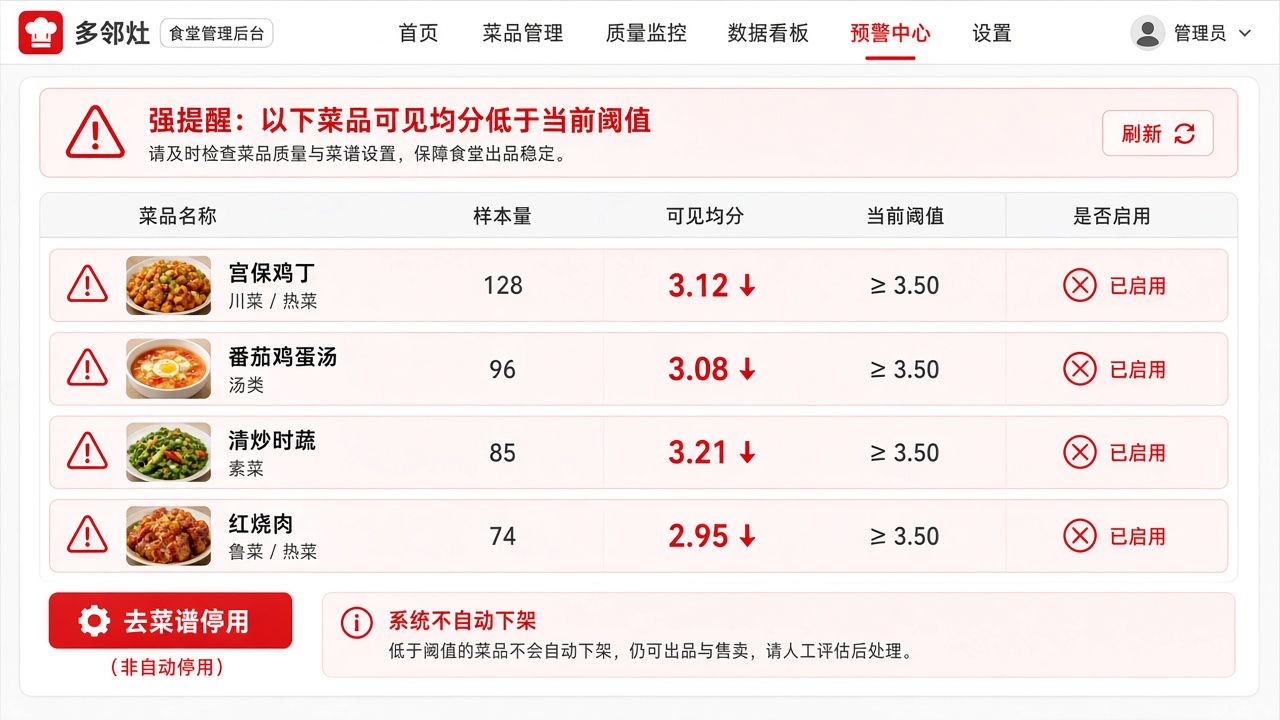
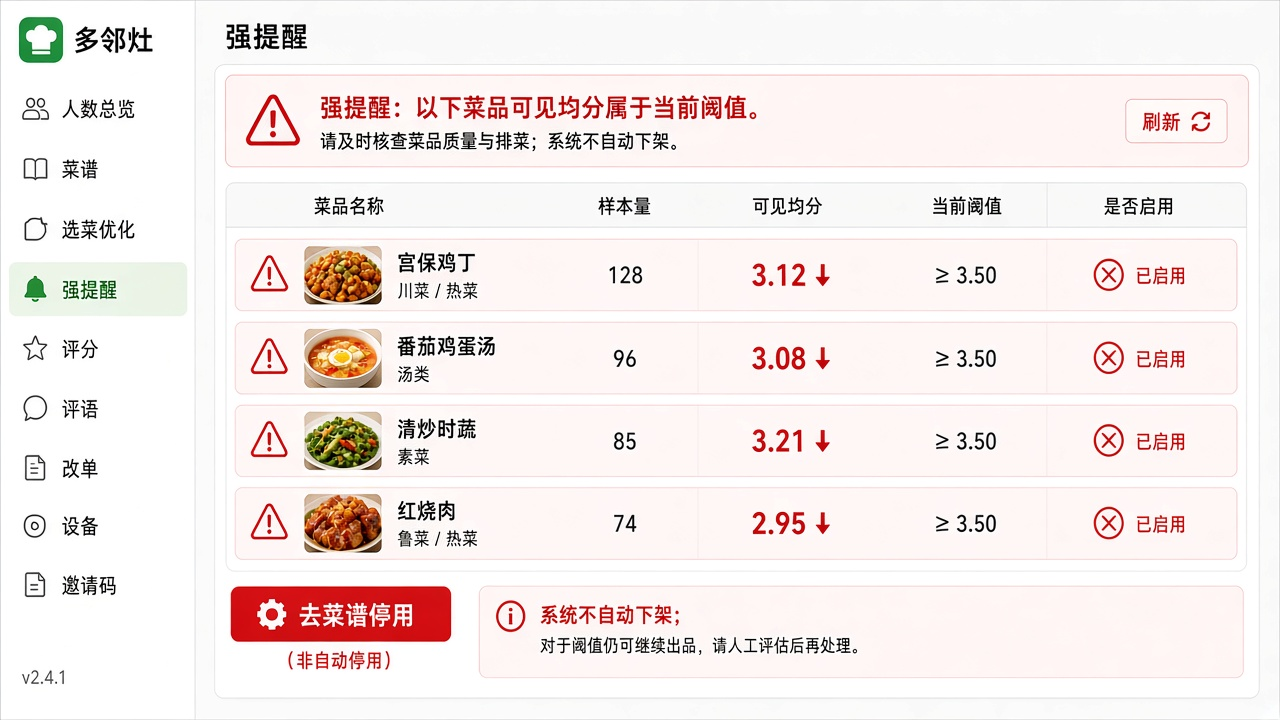
docs: add confirmed screens and the sidebar strong-alert

diff --git a/docs/requirements-phase1.md b/docs/requirements-phase1.md
@@ -192,7 +192,7 @@
 
 ## 10. 员工端界面参考
 
-员工端竖屏的参考图在 [docs/ui/](ui/README.md)。这是信息结构参考，不是像素级终稿。图和本节冲突时以本节为准。首页、选择班制、本周报餐、评分、模板预览各有一张。
+员工端竖屏的参考图在 [docs/ui/](ui/README.md)。这是信息结构参考，不是像素级终稿。图和本节冲突时以本节为准。首页、选择班制、本周报餐、评分、模板预览、邀请码注册、用描述生成模板、绑定食堂、设备与 Passkey 各有一张。
 
 1. **首页**：未选班制时标明尚未选择班制、默认不报任何一餐；可进入选择班制，也可进入本周手动报餐。底部为报餐、评分、我的。
 2. **选择班制**：只提供「上二休四」和「自定义排班」。参考图里的「长白班五休二」不在一期，不得出现。图上的「用描述生成模板」走第 7 节的模板生成器，不是第三种班制。
@@ -201,25 +201,26 @@
 
 下列页面要单独能进，不能只埋在上面四屏里：
 
-5. **邀请码注册**：未登录时的独立页。字符串账号 + 邀请码。
-6. **用描述生成模板**：从「选择班制」进入的子页，走第 7 节的模板生成器，写入个人 DSL。不是第三种班制。
+5. **邀请码注册**：未登录时的独立页，参考图见 [employee-invite-register.jpg](ui/employee-invite-register.jpg)。字符串账号 + 邀请码。
+6. **用描述生成模板**：从「选择班制」进入的子页，参考图见 [employee-template-generate.jpg](ui/employee-template-generate.jpg)。走第 7 节的模板生成器，写入个人 DSL。不是第三种班制。图上的「按账号已配置顺序」指总管理已保存的全站渠道顺序。
 7. **模板预览**：套用前的子页，参考图见 [employee-template-preview.jpg](ui/employee-template-preview.jpg)。绿色表示报餐，橙色表示不报，点一下即切换并写回个人 DSL。
-8. **绑定食堂**：从「我的」进入的独立页。绑定多个食堂是报餐使用范围，不是食堂管理范围。
-9. **设备与 Passkey**：从「我的」进入的独立页。查看设备、踢掉设备、解绑 Passkey；本账号的新设备确认用页内弹层。
+8. **绑定食堂**：从「我的」进入的独立页，参考图见 [employee-bind-canteens.jpg](ui/employee-bind-canteens.jpg)。绑定多个食堂是报餐使用范围，不是食堂管理范围。
+9. **设备与 Passkey**：从「我的」进入的独立页，参考图见 [employee-devices-passkey.jpg](ui/employee-devices-passkey.jpg)。查看设备、踢掉设备、解绑 Passkey；本账号的新设备确认用页内弹层。
 
 ---
 
 ## 11. 食堂端横屏界面清单
 
-食堂 / 物业、管理员和总管理使用**横屏**工作台。视觉参考在 [docs/ui/](ui/README.md)：以左侧栏为主，菜、饭、汤分开。强提醒、评语、截止后改单的旧稿导航不一致，不作为主导航。这里只列画面，不代替第 2 节的权限矩阵。员工竖屏不在此列。没有对应权限码或食堂范围不覆盖时，不显示该画面，调用也被拒绝。不为此清单新增权限码。图和本节冲突时以本节为准。
+食堂 / 物业、管理员和总管理使用**横屏**工作台。视觉参考在 [docs/ui/](ui/README.md)：以左侧栏为主，菜、饭、汤分开。强提醒用同一套左侧栏。评语、截止后改单的旧稿导航不一致，不作为主导航。这里只列画面，不代替第 2 节的权限矩阵。员工竖屏不在此列。没有对应权限码或食堂范围不覆盖时，不显示该画面，调用也被拒绝。不为此清单新增权限码。图和本节冲突时以本节为准。
 
-菜的新建、编辑和停用各自有明确入口。总管理的邮箱开关、强提醒阈值和账号找回各是独立页，不埋在别的列表里。
+新建和编辑是同一张菜品表单的两种状态，不各做一套画面。总管理的邮箱开关、强提醒阈值和账号找回各是独立页，不埋在别的列表里。
 
 ### 11.1 登录
 
 - **用途：** 进入横屏工作台。
 - **关键操作：** 按 Passkey / WebAuthn、TOTP、邮箱 magic link、密码的顺序登录。邮箱能力关闭时不出现 magic link。新设备只发起待确认，不能在本机自己点允许。
 - **权限：** 登录不授予食堂范围。进去之后按该账号的角色分配决定能看见哪些画面。邮箱开关只有总管理能改，不新增权限码。
+- **参考图：** [canteen-login.jpg](ui/canteen-login.jpg)。这一页没有左侧栏。邮箱能力关闭时不显示 magic link。密码放在最后。不扫码。
 - **数据：** 当前仍开放的登录入口；新设备一侧只显示正在等待已登录设备确认。
 
 ### 11.2 设备与多账号
@@ -227,6 +228,7 @@
 - **用途：** 一个食堂可以有多个账号，每个账号可以有多台设备，避免绑死一台电脑。
 - **关键操作：** 查看本账号设备和 Passkey；踢掉设备；解绑 Passkey；对本账号的待确认登录选择允许或拒绝。
 - **权限：** 只处理本账号。`device.approve` 不能按食堂范围去批准别人的新设备。查看、踢设备和解除 Passkey 是账号自身能力，不新增权限码。
+- **参考图：** [canteen-devices.jpg](ui/canteen-devices.jpg)。只处理本账号的设备、Passkey 和待确认请求。侧栏多出来的入口按权限显隐。
 - **数据：** 设备或浏览器的友好名称、User-Agent、IP、会话是否仍在、Passkey 列表、待确认请求。
 
 ### 11.3 就餐人数总览
@@ -239,32 +241,24 @@
 
 ### 11.4 菜谱
 
-菜谱分成三幅，不把新建或编辑只做成列表上的一行。
+菜谱是列表，加上同一张菜品表单。新建和编辑不再各做一套终稿。
 
 #### 11.4.1 菜谱列表
 
 - **用途：** 浏览范围内食堂已有的菜。
-- **关键操作：** 打开「新建菜」或某一行的「编辑菜」。
+- **关键操作：** 打开菜品表单的新建态，或某一行的编辑态。
 - **权限：** `menu.read`。`canteen` 限 `canteen_id` 列表，`super_admin` 为 `*`。只有 `admin`、没有 `canteen` 分配时看不到。
 - **参考图：** [canteen-menu.jpg](ui/canteen-menu.jpg)。用「全部 / 菜 / 饭 / 汤」筛选。图上没有图片列。列表可以显示缩略图，不强制；没有图片时用中性占位。
 - **数据：** 所属食堂、名称、类别（菜 / 饭 / 汤）、口味标签、`image_url`（无图为空）、是否启用。三类分组或筛选，不混成一张列表。
 
-#### 11.4.2 新建菜
+#### 11.4.2 菜品表单（新建 / 编辑）
 
-- **形态：** 菜谱列表下的独立子页。
-- **用途：** 在指定食堂新建一道菜。
-- **关键操作：** 填写并保存。可以上传一张图片，也可以不传。可以填写若干口味标签。保存后为启用。
-- **权限：** `menu.write`，且食堂范围要覆盖。上传图片和维护口味标签都用这个权限，不新增权限码。
-- **参考图：** [canteen-dish-new.jpg](ui/canteen-dish-new.jpg)。上传区、类型和启用可参考。图上的「备注」不是一期字段；口味标签是菜品上的短标签，不是备注框。
-- **数据：** 所属食堂、名称、类别（菜 / 饭 / 汤，必填）、口味标签（可空）、可选的一张图片。图片在库里是对象路径，保存成功后接口给出 `image_url`。
-
-#### 11.4.3 编辑菜（含停用 / 启用）
-
-- **形态：** 菜谱列表中某一行进入的独立子页。
-- **用途：** 修改已有菜，或显式停用、重新启用。
-- **关键操作：** 改名称、类别、口味标签或所属食堂；上传并更换图片，或移除图片；停用和启用放在本页，确认后才生效。强提醒不能代替这次确认，也不能自动停用。
-- **权限：** `menu.write`，且食堂范围要覆盖。上传、更换、移除图片和维护口味标签使用同一权限。
-- **数据：** 所属食堂、名称、类别（菜 / 饭 / 汤）、口味标签、当前 `image_url`（无图为空）、当前是否启用。无图时画面用中性占位。
+- **形态：** 同一页的两种状态。布局以编辑态为准：图片、所属食堂、名称、类别（菜 / 饭 / 汤）、口味标签、启用状态。
+- **新建态：** 空表。启用默认为开。保存后为启用。可以不上传图片，也可以填写口味标签。
+- **编辑态：** 带出已有内容。可更换或移除图片，可改名称、类别、口味标签和所属食堂。停用和启用放在本页，确认后才生效。强提醒不能代替这次确认，也不能自动停用。
+- **权限：** `menu.write`，且食堂范围要覆盖。上传、更换、移除图片和维护口味标签使用同一权限，不新增权限码。
+- **参考图：** [canteen-edit-dish.jpg](ui/canteen-edit-dish.jpg)。图上的示例菜名和所选类别只是样子。没有第二张新建菜终稿。
+- **数据：** 所属食堂、名称、类别（菜 / 饭 / 汤，必填）、口味标签（可空）、图片。图片在库里是对象路径，有图时接口给出 `image_url`。无图时画面用中性占位。编辑态另有当前是否启用。
 
 ### 11.5 选菜优化
 
@@ -290,9 +284,9 @@
 ### 11.6 强提醒
 
 - **用途：** 在样本量足够且可见均分低于阈值时，提醒食堂考虑停用该菜。
-- **关键操作：** 查看提醒。真正停用要打开「编辑菜」并显式确认。本页不修改阈值。
+- **关键操作：** 查看提醒。真正停用要打开菜品表单的编辑态并显式确认。本页不修改阈值。
 - **权限：** 该食堂的 `canteen` 分配可以看提醒。修改阈值只在「强提醒阈值」，要 `rating.strong_alert_config`。
-- **参考图：** [canteen-alert.jpg](ui/canteen-alert.jpg) 是旧稿，导航不作为主参考。不自动下架保留。图上的 3 分制不采纳，分数仍是 −2～2。
+- **参考图：** [canteen-alert.jpg](ui/canteen-alert.jpg)。左侧栏里的「强提醒」，与人数总览、菜谱同一套导航。看低分列表、去菜谱停用，以及不自动下架。图上的 3 分制和「川菜 / 热菜」等细类不采纳；分数仍是 −2～2，类别仍是菜、饭、汤。
 - **数据：** 名称、类别（菜 / 饭 / 汤）、样本量、可见均分、当前阈值、现在是否启用。按三类分组或筛选。文案不出现倾向、权重或 Elo。系统不自动下架。
 
 ### 11.7 评分汇总
@@ -324,6 +318,7 @@
 - **用途：** 发放注册用的一次性邀请码。
 - **关键操作：** 从列表进入生成。生成之后进入单独的「邀请码展示」状态，完整显示这一次的码。离开该状态后，列表只保留是否已使用和发放时间，不再显示码原文。
 - **权限：** `user.invite`。只有 `admin` 与 `super_admin`。`canteen` 没有。邀请不按食堂拆开。
+- **参考图：** [canteen-invite-show.jpg](ui/canteen-invite-show.jpg)。完整码只在这一次展示。图上的码形是示例。侧栏入口按权限显隐。
 - **数据：** 展示状态中的完整邀请码只出现一次。列表是已发放记录，不是码本身。
 
 ### 11.11 数据导出
@@ -372,7 +367,7 @@
 - **权限：** 仅 `super_admin` 的 `system.super`。不新增权限码。`canteen` 和 `admin` 看不到。
 - **数据：** 顺序、渠道种类（至少 OpenAI 旧接口、OpenAI 新接口、Anthropic，以及带 base URL 的兼容接口）、模型名、key 是否已配置。key 加密后存放。响应和审计都不含 key 原文。
 
-横屏里要能单独点到的名称：登录、设备与多账号、就餐人数总览、菜谱列表、新建菜、编辑菜、选菜优化（周视图、当餐选定）、强提醒、评分汇总、匿名评语、截止后改单、邀请码、邀请码展示、数据导出、审计日志、邮箱设置、强提醒阈值、账号找回、LLM 渠道配置。已有参考图的画面见 [docs/ui/](ui/README.md)。没有图的画面仍按第 10 节和第 11 节的文字做。
+横屏里要能单独点到的名称：登录、设备与多账号、就餐人数总览、菜谱列表、菜品表单（新建态 / 编辑态）、选菜优化（周视图、当餐选定）、强提醒、评分汇总、匿名评语、截止后改单、邀请码、邀请码展示、数据导出、审计日志、邮箱设置、强提醒阈值、账号找回、LLM 渠道配置。已有参考图的画面见 [docs/ui/](ui/README.md)。没有图的画面仍按第 10 节和第 11 节的文字做。
 
 ---
 
@@ -403,3 +398,5 @@
 | 2026-10-10 | 新建菜和编辑菜可上传一张图片。菜谱列表、选菜优化和评分显示该图片；没有图片时留空 |
 | 2026-10-10 | 更新界面参考：员工竖屏五张，食堂横屏以左侧栏为主。强提醒、评语、改单的旧导航稿不作为主参考 |
 | 2026-10-10 | 菜品图片写入对象路径并对外给 `image_url`；列表缩略图可选，无图用占位。口味标签由食堂维护，选菜只作辅助。色阶为更高更绿、更低更红。总管理增加「LLM 渠道配置」页 |
+| 2026-10-10 | 入库八张已确认主视觉：邀请码注册、描述生成、绑定食堂、设备与 Passkey、横屏登录、设备与多账号、编辑菜、邀请码展示 |
+| 2026-10-10 | 强提醒改用左侧栏终稿。新建与编辑合并为同一张菜品表单，以编辑菜布局为准；旧的新建菜图不再作为终稿 |

diff --git a/specs/phase1/requirements.md b/specs/phase1/requirements.md
@@ -34,7 +34,7 @@
 17. 周视图的一周是北京时间周一至周日。「把一周菜单定下来」指这一周每天三餐的选定结果已经保存，并能在周视图里按菜、饭、汤看清。它不是报餐截止锁定，也不另设一份冻结状态。某一类可以先空着。
 18. 每道餐品最多一张图片。新建和编辑可以上传、更换或移除，也可以一直不上传。库里保存对象路径，接口给出 `image_url`。菜谱列表可以显示缩略图，不强制。选菜优化和评分显示图片。没有图片时用中性占位，不用另一道菜的图充数。不新增权限码。图片只接受 JPEG、PNG、WebP，大小不超过配置上限；仓库不写死字节数。
 19. 口味标签挂在菜品上，由持有 `menu.write` 的食堂人员维护。选菜优化的周视图和当餐选定可以展示标签。标签不参与组内排序，也不改变色阶。色阶严格表示该类内的评分偏好：更高更绿，更低更红；无人评分用中性色。
-20. [docs/ui/](../../docs/ui/README.md) 是当前视觉参考，不是像素级终稿。食堂端以左侧栏那组为主。强提醒、评语、截止后改单三张旧稿的导航不作为主参考。图上的上五休二、备注、预计评分、评分偏好文案、大人儿童人数、分类占比、3 分制和另一套导航都不采纳。图和本文冲突时以本文为准。缺图的画面按需求原文第 10 节和第 11 节的文字做。
+20. [docs/ui/](../../docs/ui/README.md) 是当前视觉参考，不是像素级终稿。食堂端以左侧栏那组为主。强提醒用这套左侧栏。评语、截止后改单两张旧稿的导航不作为主参考。图上的上五休二、备注、预计评分、评分偏好文案、大人儿童人数、分类占比、3 分制和另一套导航都不采纳。新建和编辑是同一张菜品表单的两态。图和本文冲突时以本文为准。缺图的画面按需求原文第 10 节和第 11 节的文字做。
 
 ## 需求
 
@@ -207,8 +207,8 @@
 #### 验收标准
 
 1. 当持有该食堂 `menu.read` 的账号打开菜谱时，多邻灶应当展示菜谱列表。没有该权限码或范围不覆盖时应当拒绝。
-2. 当持有该食堂 `menu.write` 的账号新建菜时，多邻灶应当打开独立的「新建菜」子页，并把新菜归属到所选食堂、设为启用。
-3. 当持有该食堂 `menu.write` 的账号编辑菜时，多邻灶应当打开独立的「编辑菜」子页，并在确认后才停用或重新启用。
+2. 当持有该食堂 `menu.write` 的账号新建菜时，多邻灶应当打开菜品表单的新建态：空表，启用默认为开，保存后归属所选食堂并设为启用。
+3. 当持有该食堂 `menu.write` 的账号编辑菜时，多邻灶应当打开同一张菜品表单的编辑态，并在确认后才停用或重新启用。
 4. 当账号没有该食堂的 `menu.write` 时，多邻灶应当拒绝新建、修改和停用。
 5. 当新建或编辑菜时，多邻灶应当要求类别为菜、饭、汤之一。菜是热菜、凉菜等菜肴，饭是米饭、面食等主食，汤是汤。缺少类别，或提交这三类以外的值时，应当拒绝。
 6. 当展示菜谱列表时，多邻灶应当按菜、饭、汤分组或筛选，不把三类放进同一条混合列表。
@@ -345,11 +345,11 @@
 7. 当员工查看本周报餐时，多邻灶应当按天展示早、中、晚，允许在已绑定食堂之间切换，并提示跨食堂时按所选食堂生效，以及次日三餐会被锁定。报餐显示为绿色，不报显示为橙色。本周报餐参考图里的空心按钮和底部「保存」不代替这条。
 8. 当员工为已报过且仍在评分窗口内的餐打分时，多邻灶应当对餐品提供 −2、−1、0、1、2，并允许可选的匿名评语，最长 300 字，同时提示一周内可评。菜、饭、汤应当分开展示，不放进同一条混合列表。每道餐品旁应当显示其图片；没有图片时用中性占位。评分参考图把不同类别排在一起，实现时仍然分开。评语应当挂在每一道餐品的评分上。
 9. 多邻灶应当不根据员工端竖屏参考图实现食堂端。食堂端横屏以需求 20 和 [docs/ui/](../../docs/ui/README.md) 的主参考为准。
-10. 当未登录访客注册时，多邻灶应当提供独立的「邀请码注册」页。
-11. 当员工从选择班制进入描述生成时，多邻灶应当打开独立子页「用描述生成模板」，并把它写入个人 DSL。该子页不是第三种班制。
+10. 当未登录访客注册时，多邻灶应当提供独立的「邀请码注册」页，信息结构对齐 [employee-invite-register.jpg](../../docs/ui/employee-invite-register.jpg)。
+11. 当员工从选择班制进入描述生成时，多邻灶应当打开独立子页「用描述生成模板」，信息结构对齐 [employee-template-generate.jpg](../../docs/ui/employee-template-generate.jpg)，并把它写入个人 DSL。该子页不是第三种班制。图上的渠道顺序指总管理已保存的全站顺序。
 12. 当员工在套用前预览模板时，多邻灶应当打开「模板预览」子页，信息结构对齐 [employee-template-preview.jpg](../../docs/ui/employee-template-preview.jpg)：报餐为绿色，不报为橙色，切换写回个人 DSL。
-13. 当员工绑定食堂时，多邻灶应当从「我的」打开独立的「绑定食堂」页。
-14. 当员工查看设备或 Passkey 时，多邻灶应当从「我的」打开独立的「设备与 Passkey」页。
+13. 当员工绑定食堂时，多邻灶应当从「我的」打开独立的「绑定食堂」页，信息结构对齐 [employee-bind-canteens.jpg](../../docs/ui/employee-bind-canteens.jpg)。
+14. 当员工查看设备或 Passkey 时，多邻灶应当从「我的」打开独立的「设备与 Passkey」页，信息结构对齐 [employee-devices-passkey.jpg](../../docs/ui/employee-devices-passkey.jpg)。本账号的新设备确认用页内允许或拒绝。
 
 ### 需求 20 - 食堂端横屏画面
 
@@ -357,19 +357,19 @@
 
 #### 验收标准
 
-1. 多邻灶应当为食堂、管理员和总管理提供横屏工作台，画面与 [一期需求原文](../../docs/requirements-phase1.md) 第 11 节一致，视觉参考 [docs/ui/](../../docs/ui/README.md)。导航以左侧栏那组主参考为准。强提醒、评语、截止后改单的旧稿只参考画面内容，不照搬它们的导航。员工竖屏不复用这些画面。图和需求原文冲突时以原文为准。
+1. 多邻灶应当为食堂、管理员和总管理提供横屏工作台，画面与 [一期需求原文](../../docs/requirements-phase1.md) 第 11 节一致，视觉参考 [docs/ui/](../../docs/ui/README.md)。导航以左侧栏那组主参考为准。强提醒使用这套左侧栏。评语、截止后改单的旧稿只参考画面内容，不照搬它们的导航。员工竖屏不复用这些画面。图和需求原文冲突时以原文为准。
 2. 当账号缺少某画面所需权限码，或食堂范围不覆盖时，多邻灶应当不展示该画面，并拒绝相应操作。
 3. 多邻灶应当不为本节画面新增权限码。
-4. 当账号登录横屏工作台时，多邻灶应当提供与员工端相同的登录顺序；邮箱能力关闭时两端都不出现 magic link。新设备只能等待本账号已登录设备页内确认。
-5. 当账号查看设备画面时，多邻灶应当只列出本账号的设备、Passkey 和待确认请求，并允许踢掉本账号设备、解绑本账号 Passkey、批准或拒绝本账号的新设备登录。
+4. 当账号登录横屏工作台时，多邻灶应当提供与员工端相同的登录顺序，信息结构对齐 [canteen-login.jpg](../../docs/ui/canteen-login.jpg)；邮箱能力关闭时两端都不出现 magic link。新设备只能等待本账号已登录设备页内确认。这一页没有左侧栏。
+5. 当账号查看设备画面时，多邻灶应当只列出本账号的设备、Passkey 和待确认请求，信息结构对齐 [canteen-devices.jpg](../../docs/ui/canteen-devices.jpg)，并允许踢掉本账号设备、解绑本账号 Passkey、批准或拒绝本账号的新设备登录。
 6. 当账号持有某食堂的 `menu.read`、`optimizer.read` 或 `meal.admin_override`，或持有 `super_admin` 时，多邻灶应当在就餐人数总览中展示该食堂选定日期的早、中、晚有效报餐人数和是否已锁定。仅有员工食堂绑定的账号应当看不到这幅画面。
-7. 当账号持有 `menu.read` 时，多邻灶应当展示菜谱列表，并按菜、饭、汤分组或筛选，不把三类放进同一条混合列表。列表可以显示缩略图，不强制；没有图片时用中性占位。当账号持有 `menu.write` 时，应当能从列表进入独立的「新建菜」和「编辑菜」；新建和编辑必须填写类别，且只能是这三类之一，并可以上传、更换或移除一张图片，以及维护口味标签；停用须在编辑页确认。没有 `menu.write` 时应当拒绝新建、修改、停用、上传图片和维护标签。
+7. 当账号持有 `menu.read` 时，多邻灶应当展示菜谱列表，并按菜、饭、汤分组或筛选，不把三类放进同一条混合列表。列表可以显示缩略图，不强制；没有图片时用中性占位。当账号持有 `menu.write` 时，应当能从列表进入同一张菜品表单：新建态是空表且默认启用，编辑态带出已有内容；类别只能是菜、饭、汤之一，并可以上传、更换或移除一张图片，以及维护口味标签；停用须在编辑态确认。没有 `menu.write` 时应当拒绝新建、修改、停用、上传图片和维护标签。布局对齐 [canteen-edit-dish.jpg](../../docs/ui/canteen-edit-dish.jpg)。
 8. 当账号持有 `optimizer.read` 时，多邻灶应当先给出周视图：周一至周日，每天三餐，每餐分列菜、饭、汤，并在餐品旁显示图片和口味标签。进入某一餐后应当把候选分成三组，在每一组内部按暗线偏好排序，并按更高更绿、更低更红上色。标签不改变排序和色阶。不展示偏好数值、倾向、权重或 Elo。勾选或取消应当立即保存。保存并前进应当按早餐、午餐、晚餐、下一天早餐的顺序跳转；周日晚餐之后进入下一周周一早餐，以便把一周菜单定下来。没有图片时应当用中性占位。
-9. 当账号持有该食堂的 `canteen` 分配时，多邻灶应当在强提醒画面展示样本量、可见均分和阈值，并按菜、饭、汤分组或筛选。系统应当不因提醒自动停用菜。修改阈值应当只出现在总管理的「强提醒阈值」页，并要求 `rating.strong_alert_config`。
+9. 当账号持有该食堂的 `canteen` 分配时，多邻灶应当在左侧栏的「强提醒」页展示样本量、可见均分和阈值，并按菜、饭、汤分组或筛选。信息结构对齐 [canteen-alert.jpg](../../docs/ui/canteen-alert.jpg)。系统应当不因提醒自动停用菜。停用要打开菜品表单并显式确认。修改阈值应当只出现在总管理的「强提醒阈值」页，并要求 `rating.strong_alert_config`。图上的 3 分制不采纳。
 10. 当账号持有 `rating.admin_read` 时，多邻灶应当展示范围内餐品的图片、可见均分、样本量和 −2 到 2 的次数，并按菜、饭、汤分组或筛选。没有图片时应当用中性占位。`canteen` 在自己的食堂范围内也应当看得到。员工应当看不到。
 11. 当账号持有 `comment.admin_read` 时，多邻灶应当展示范围内评语，并按菜、饭、汤分组或筛选；匿名评语不展示账号，且不提供删除操作。`canteen` 在自己的食堂范围内也应当看得到。
 12. 当账号持有覆盖该餐的 `meal.admin_override` 时，多邻灶应当允许在截止后修改该餐，并写入带操作者、角色和范围的审计。
-13. 当账号持有 `user.invite` 时，多邻灶应当允许生成邀请码，并在单独的「邀请码展示」状态完整显示一次。离开后列表不得再显示码原文。`canteen` 单独分配时应当看不到邀请码画面。
+13. 当账号持有 `user.invite` 时，多邻灶应当允许生成邀请码，并在单独的「邀请码展示」状态完整显示一次，信息结构对齐 [canteen-invite-show.jpg](../../docs/ui/canteen-invite-show.jpg)。离开后列表不得再显示码原文。图上的码形是示例。`canteen` 单独分配时应当看不到邀请码画面。
 14. 当账号持有 `export.run` 时，多邻灶应当允许导出食堂、菜谱、报餐、评分、评语和审计，并排除密码哈希与密钥。没有该权限码时应当看不到数据导出。
 15. 当账号持有 `audit.read` 时，多邻灶应当允许查看含操作者、角色和范围的审计，并拒绝删除未满 6 个月的记录。没有该权限码时应当看不到审计日志。
 16. 总管理应当有独立的「邮箱设置」页和「账号找回」页。邮箱设置不新增权限码；账号找回要求 `user.recover`。

diff --git a/docs/ui/README.md b/docs/ui/README.md
@@ -2,7 +2,7 @@
 
 这些图是当前的视觉参考，不是像素级终稿。产品规则以 [一期需求](../requirements-phase1.md) 为准。图和正文冲突时，按正文实现，并看下面的「不要照搬」。
 
-食堂端以**左侧栏**为主，菜、饭、汤分开。强提醒、评语、截止后改单三张是更早的稿，导航彼此不一致，**不作为主导航**。内容可以参考，外壳跟主参考的左侧栏走。
+食堂端以**左侧栏**为主，菜、饭、汤分开。评语、截止后改单两张是更早的稿，导航彼此不一致，**不作为主导航**。内容可以参考，外壳跟主参考的左侧栏走。
 
 ## 员工端竖屏
 
@@ -13,6 +13,10 @@
 | 本周报餐 | [employee-week.jpg](employee-week.jpg) |
 | 评分 | [employee-rating.jpg](employee-rating.jpg) |
 | 模板预览：绿色报餐，橙色不报 | [employee-template-preview.jpg](employee-template-preview.jpg) |
+| 邀请码注册 | [employee-invite-register.jpg](employee-invite-register.jpg) |
+| 用描述生成模板 | [employee-template-generate.jpg](employee-template-generate.jpg) |
+| 绑定食堂 | [employee-bind-canteens.jpg](employee-bind-canteens.jpg) |
+| 设备与 Passkey（含新设备页内确认） | [employee-devices-passkey.jpg](employee-devices-passkey.jpg) |
 
 ## 食堂端横屏（主参考）
 
@@ -22,9 +26,13 @@
 |------|--------|
 | 就餐人数总览 | [canteen-headcount.jpg](canteen-headcount.jpg) |
 | 菜谱列表 | [canteen-menu.jpg](canteen-menu.jpg) |
-| 新建菜品（含图片上传） | [canteen-dish-new.jpg](canteen-dish-new.jpg) |
 | 评分汇总 | [canteen-ratings.jpg](canteen-ratings.jpg) |
 | 选菜优化：周视图里按餐选菜、饭、汤 | [canteen-optimizer.jpg](canteen-optimizer.jpg) |
+| 登录（无左侧栏） | [canteen-login.jpg](canteen-login.jpg) |
+| 设备与多账号 | [canteen-devices.jpg](canteen-devices.jpg) |
+| 菜品表单：新建为空表，编辑带出已有内容 | [canteen-edit-dish.jpg](canteen-edit-dish.jpg) |
+| 邀请码一次性展示 | [canteen-invite-show.jpg](canteen-invite-show.jpg) |
+| 强提醒 | [canteen-alert.jpg](canteen-alert.jpg) |
 
 选菜优化这张要看的是：菜、饭、汤分列，卡片带图片和口味标签（如酸、甜、开胃），勾选自动保存，并有「保存并下一餐」。颜色严格表示评分偏好：更高更绿，更低更红。标签不代替这个色阶，也不代替组内排序。
 
@@ -32,7 +40,6 @@
 
 | 屏幕 | 参考图 | 说明 |
 |------|--------|------|
-| 强提醒 | [canteen-alert.jpg](canteen-alert.jpg) | 顶栏是另一套。看卡片和「不自动下架」即可 |
 | 评语 | [canteen-comments.jpg](canteen-comments.jpg) | 侧栏和主参考不完全一样。看匿名评语卡片即可 |
 | 截止后改单 | [canteen-override.jpg](canteen-override.jpg) | 侧栏里有订单、餐补等一期没有的入口。看改单表格即可 |
 
@@ -42,18 +49,17 @@
 - 本周报餐图里，没报的餐画成空心按钮，底部还有「保存」。锁定规则仍是绿色表示报餐、橙色表示不报，切换写回个人 DSL。空心样式和这颗保存按钮不覆盖该规则。绿 / 橙以模板预览图为准。
 - 评分图把菜、汤、饭排在同一列表，评语画成整餐一条。实现仍把菜、饭、汤分开，评语仍挂在每一道餐品自己的评分上。图上的图片和 −2～2 要保留。
 - 菜谱列表和评分汇总的图没有画出图片列。列表可以显示缩略图，不强制。没有图片时用中性占位，不用别的菜品图充数。评分汇总和选菜仍显示图片或占位。
-- 新建菜品图上的「备注」不是一期字段。类型只能是菜、饭、汤。卡片上的短句是口味标签，由食堂在新建和编辑时维护。
+- 菜品表单只有一张终稿，就是编辑菜这张布局。新建是同一页的空表，默认启用。没有备注字段。类型只能是菜、饭、汤。口味标签由食堂在这张表单里维护。
 - 选菜优化图上的「预计评分：87分」「评分偏好：高」和「2 大人 + 2 儿童」不实现。色阶只表示偏好高低（更高更绿，更低更红），界面不出现偏好数字、倾向、权重或 Elo。
 - 人数总览图下半的分类占比，以及同一天里「午餐已锁定、晚餐未锁定」，不实现。人数仍是有效报餐人数。锁定仍是一次锁定次日三餐。
-- 强提醒图上的均分是 3 分一带。一期分数仍是 −2～2。不自动下架这一点保留。
+- 强提醒图用左侧栏，不再用顶栏「预警中心」。图上的均分是 3 分一带，细类写成「川菜 / 热菜」。一期分数仍是 −2～2，类别仍是菜、饭、汤。不自动下架，停用要去菜品表单确认。
 - 旧稿里的顶栏、第二套侧栏、订单管理和餐补规则都不要做成导航。
+- 描述生成图上的「按账号已配置顺序」指总管理在「LLM 渠道配置」里排好的全站顺序。员工端不填写 key。
+- 邀请码展示图上的码形是示例，不规定码的格式。编辑菜图上的示例菜名和所选类别只是样子。
+- 侧栏里出现的邀请码、导出、审计、邮箱、阈值、找回、LLM 按权限显隐，不是每个账号都看得到。登录页没有左侧栏。
 
 ## 还没有参考图的画面
 
-这些画面没有稿，按 [一期需求](../requirements-phase1.md) 的文字做。
-
-员工端第 10 节：邀请码注册、用描述生成模板、绑定食堂、设备与 Passkey。
-
-食堂端第 11 节：登录、设备与多账号、编辑菜、邀请码、邀请码展示、数据导出、审计日志、邮箱设置、强提醒阈值、账号找回、LLM 渠道配置。强提醒、评语、截止后改单虽有旧稿，导航仍以本节主参考的左侧栏为准。
+这些画面没有稿，按 [一期需求](../requirements-phase1.md) 第 11 节的文字做：数据导出、审计日志、邮箱设置、强提醒阈值、账号找回、LLM 渠道配置。评语、截止后改单虽有旧稿，导航仍以本节主参考的左侧栏为准。
 
 班制参考图里的「长白班五休二」一期禁止实现。

diff --git a/specs/phase1/tasks.md b/specs/phase1/tasks.md
@@ -54,11 +54,11 @@
 - _需求: 需求 10
 
 - [ ] 7. 完成按食堂维护的菜谱
-- 菜谱列表、新建菜、编辑菜分成独立页面。只有该食堂 `menu.read` 可看列表，只有 `menu.write` 可新建、编辑和停用
+- 菜谱列表和菜品表单。新建和编辑是同一页的两态，布局以编辑态为准。只有该食堂 `menu.read` 可看列表，只有 `menu.write` 可新建、编辑和停用
 - 每条记录必须填写类别，且只能是菜、饭、汤之一。菜是热菜、凉菜等菜肴，饭是米饭、面食等主食，汤是汤。列表按这三类分组或筛选，不混成一张列表。缩略图可以显示，不强制；没有图片时用中性占位
 - 新建菜和编辑菜可以上传、更换或移除一张 JPEG、PNG 或 WebP，并维护口味标签。库里存 `image_path`，接口给 `image_url`。不上传也能保存。超过配置大小上限或类型不符时拒绝。没有 `menu.write` 不能改图片或标签
 - 员工绑定食堂不自动得到 `menu.write`
-- 停用须在编辑菜页确认，不能从强提醒自动停用
+- 停用须在菜品表单的编辑态确认，不能从强提醒自动停用
 - _需求: 需求 7、需求 11
 
 - [ ] 8. 完成明线评分、评语与暗线偏好
@@ -118,10 +118,10 @@
 - _需求: 需求 8、需求 9、需求 14、需求 16、需求 19
 
 - [ ] 14. 实现食堂端横屏画面
-- 按需求原文第 11 节和 `docs/ui/` 实现横屏画面。导航用左侧栏主参考，不用强提醒、评语、改单旧稿的另一套导航。单独做出：菜谱列表、新建菜、编辑菜、邀请码展示、邮箱设置、强提醒阈值、账号找回、LLM 渠道配置。缺图的画面按第 10 节和第 11 节文字做
+- 按需求原文第 11 节和 `docs/ui/` 实现横屏画面。导航用左侧栏主参考。强提醒用这套侧栏，不用顶栏「预警中心」。评语和改单不用旧稿的另一套导航。菜品表单只有一页：新建为空表且默认启用，编辑带出已有内容。另有邀请码展示、邮箱设置、强提醒阈值、账号找回、LLM 渠道配置。缺图的画面按第 10 节和第 11 节文字做
 - 缺权限码或食堂范围不覆盖时不显示画面并拒绝操作，不新增权限码
 - 就餐人数只统计有效报餐，不展示暗线数值。选菜优化先给周视图，当餐选定在菜、饭、汤每一组内按偏好排序，更高更绿、更低更红。口味标签只作辅助。不出现倾向、权重、Elo。勾选立即保存，并可从早餐跳到午餐、晚餐和下一天。强提醒不自动停用菜，并按这三类分组或筛选
-- 菜谱列表、新建菜和编辑菜都带类别，且只能是菜、饭、汤。新建和编辑可上传一张图片并维护口味标签。列表可以显示缩略图，不强制。选菜和评分汇总显示图片，无图用中性占位。三类分组或筛选，不混成一张列表
+- 菜谱列表和菜品表单都带类别，且只能是菜、饭、汤。表单可上传一张图片并维护口味标签。列表可以显示缩略图，不强制。选菜和评分汇总显示图片，无图用中性占位。三类分组或筛选，不混成一张列表
 - 食堂在自己的范围内可看匿名评语和评分汇总；匿名不展示账号，评语不提供删除
 - 邀请码只在「邀请码展示」状态完整出现一次
 - 导出与审计只有总管理。邮箱设置和账号找回也只有总管理，且各自独立成页

diff --git a/AGENTS.md b/AGENTS.md
@@ -16,7 +16,7 @@
 
 - `docs/requirements-phase1.md` — 一期需求（权威）
 - `docs/` 下 EARS 用户故事与任务分解 — 实现拆解
-- `docs/ui/` — 主视觉参考图（员工竖屏五张；食堂横屏以左侧栏为主）。缺图的画面看需求 §10 / §11，不要把旧稿导航当成主导航。班制图里的上五休二禁止实现
+- `docs/ui/` — 主视觉参考图（员工竖屏；食堂横屏以左侧栏为主，含强提醒）。新建和编辑是同一张菜品表单。缺图的画面看需求 §10 / §11。评语和改单的旧稿导航不当主导航。班制图里的上五休二禁止实现
 
 ## Architecture notes（一期）
 
